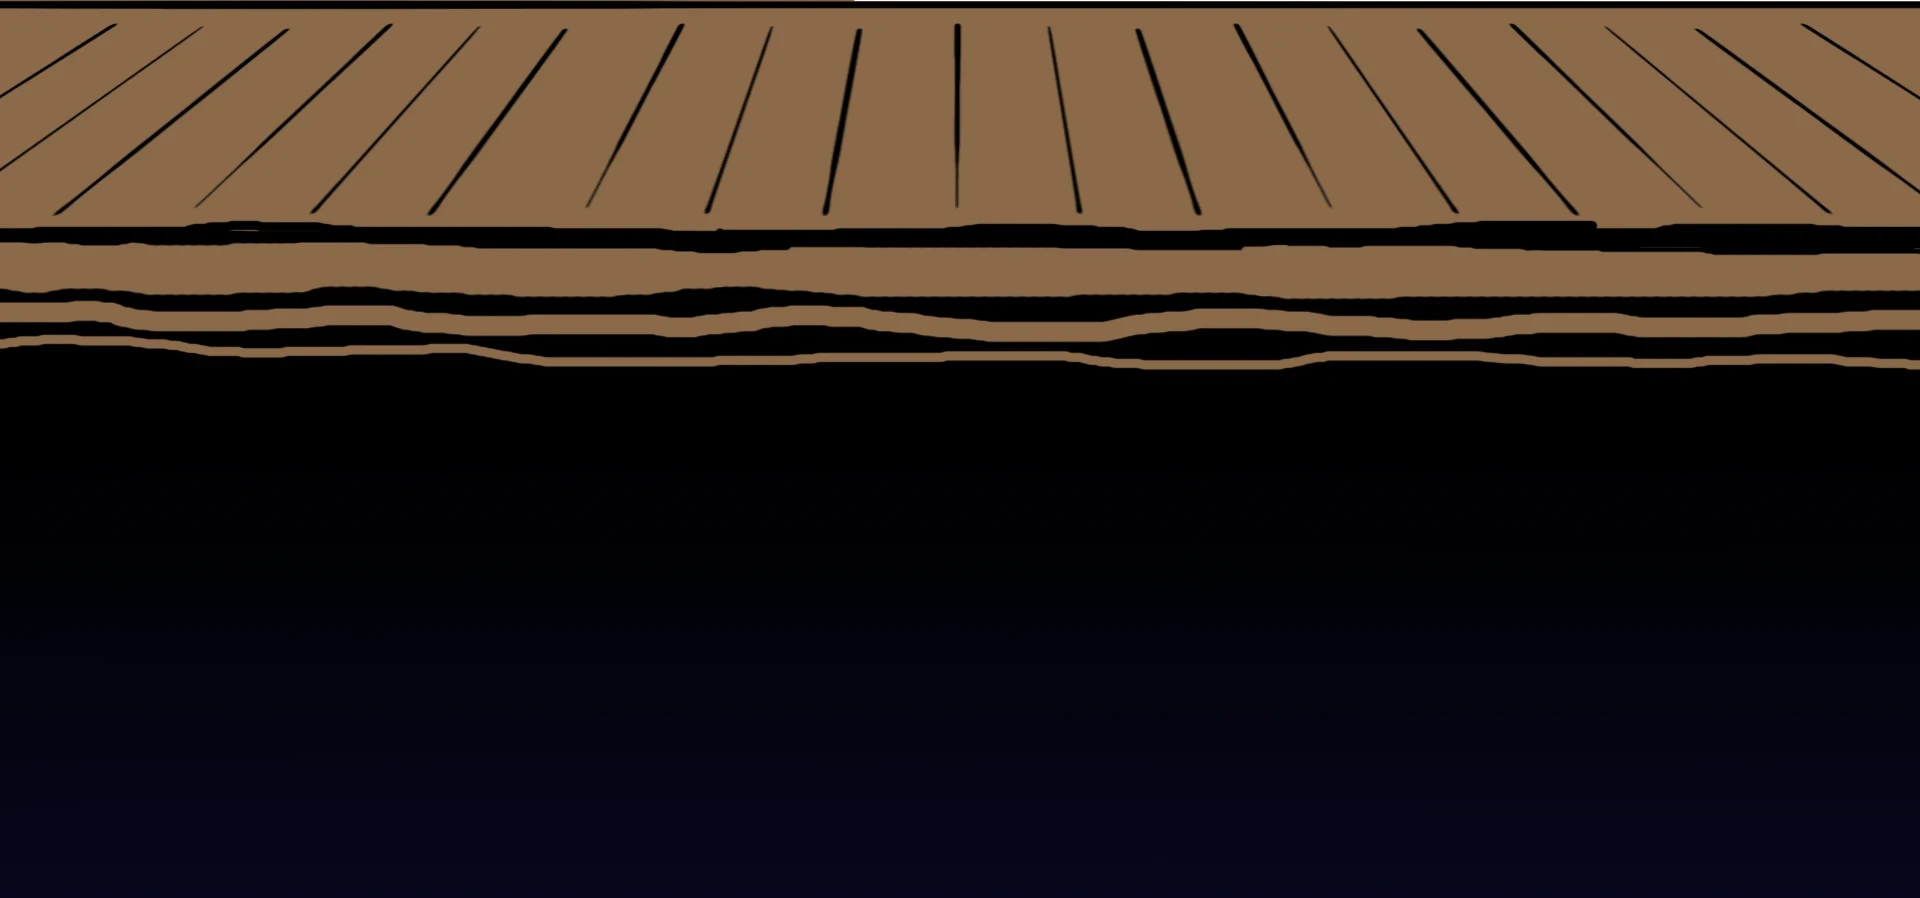
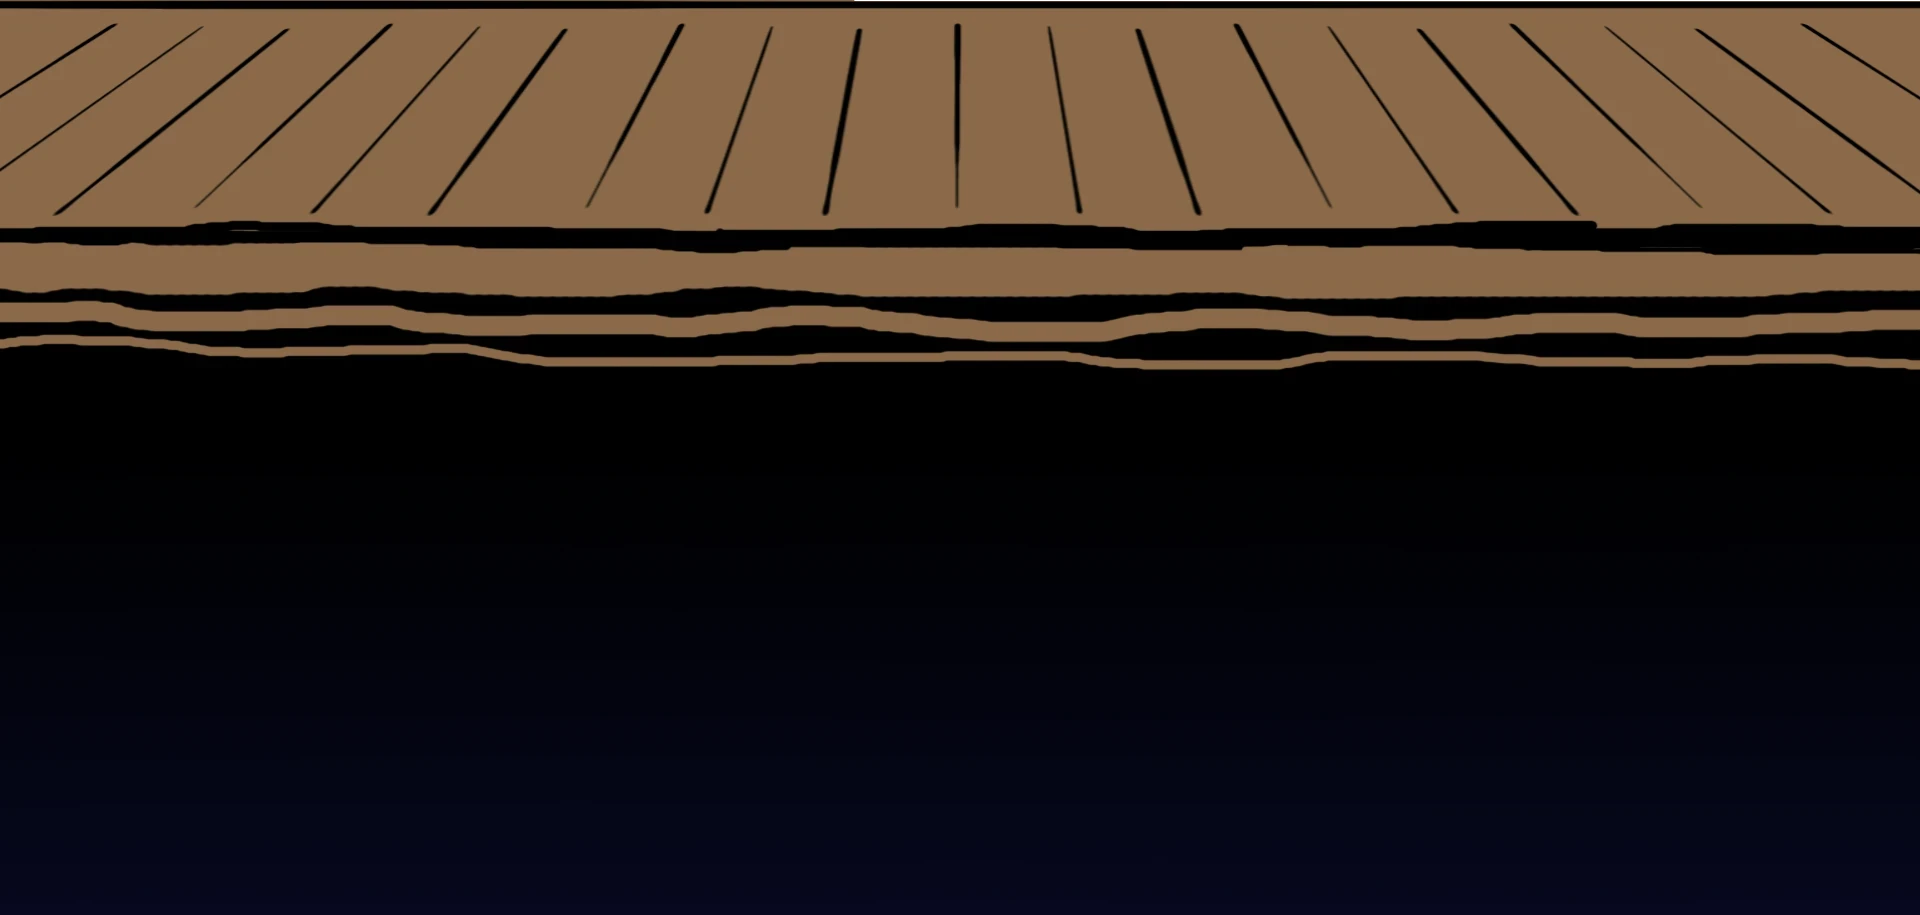
tweaks

diff --git a/src/widgets/Stage.vue b/src/widgets/Stage.vue
@@ -299,7 +299,10 @@
             </div>
         </BorderBox>
     </div>
-    <div :style="{background: `hsl(${wallColor[0]}, ${wallColor[1]}%, ${wallColor[2]}%) `}" style="padding-bottom: 4em">
+    <div
+        :style="{background: `hsl(${wallColor[0]}, ${wallColor[1]}%, ${wallColor[2]}%) `}"
+        style="padding-bottom: 4em; margin-top: -2px"
+    >
         <img src="/stage/stage-bottom.webp" />
     </div>
 </template>
